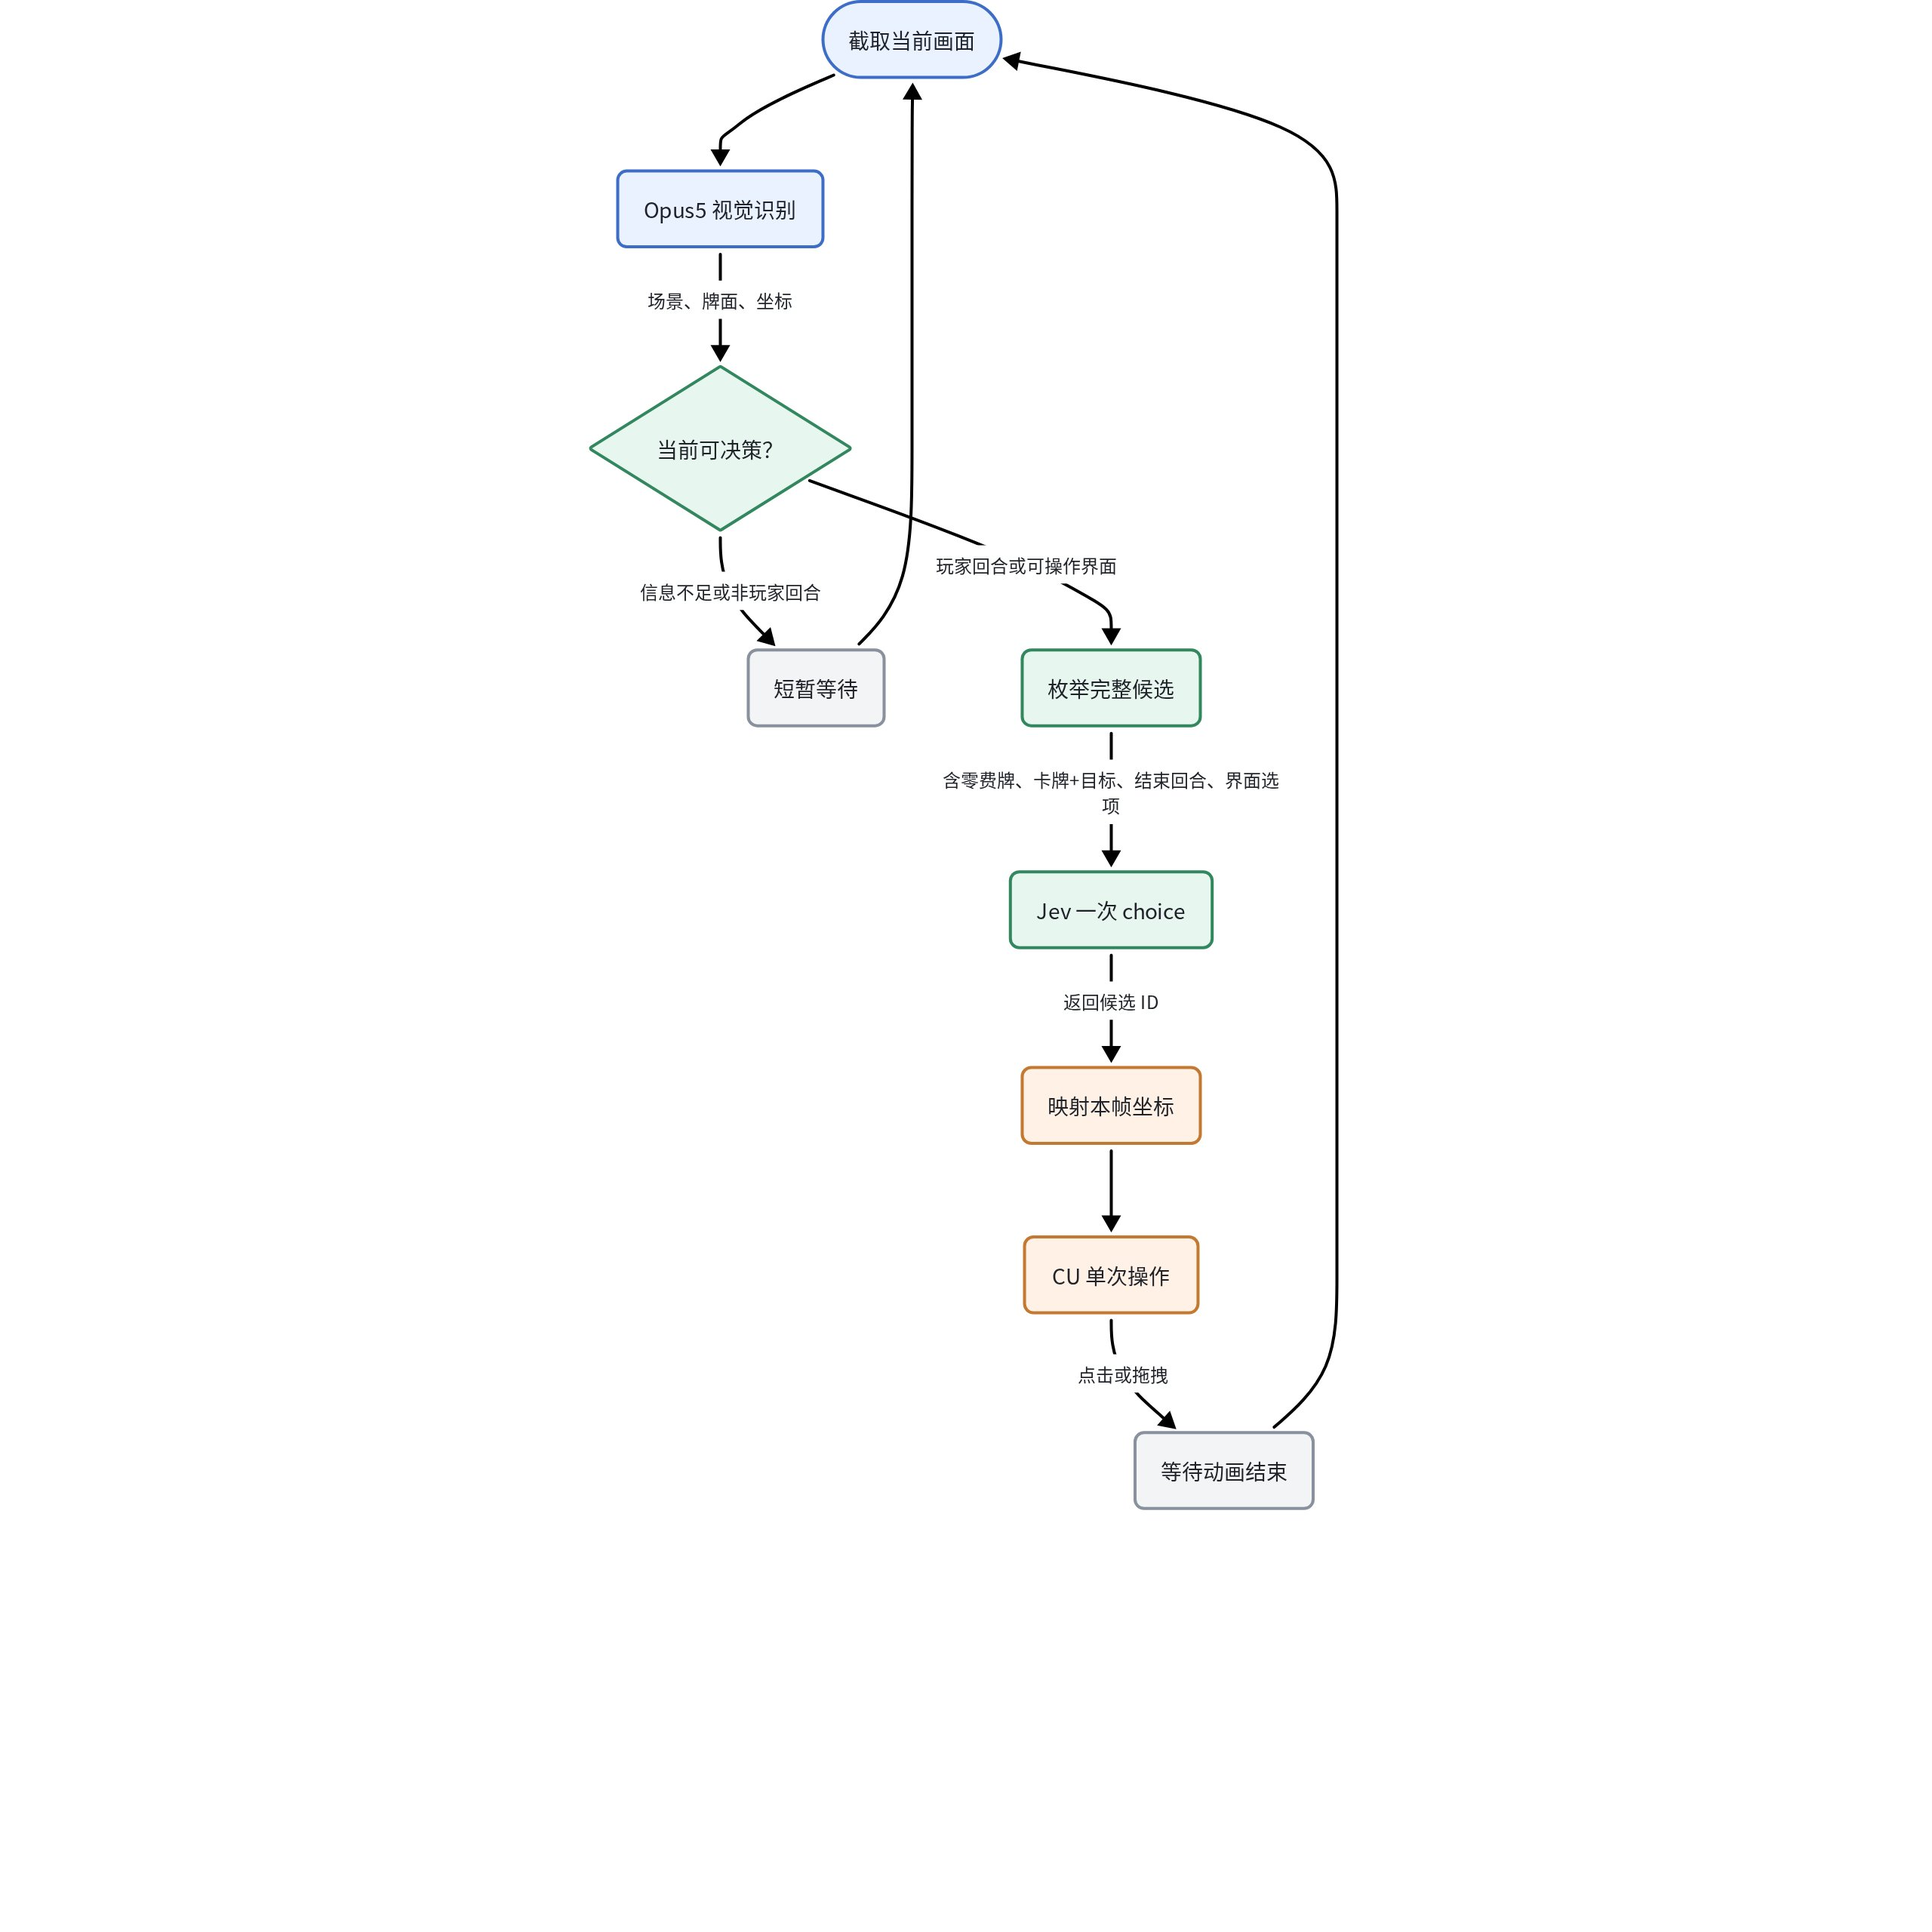
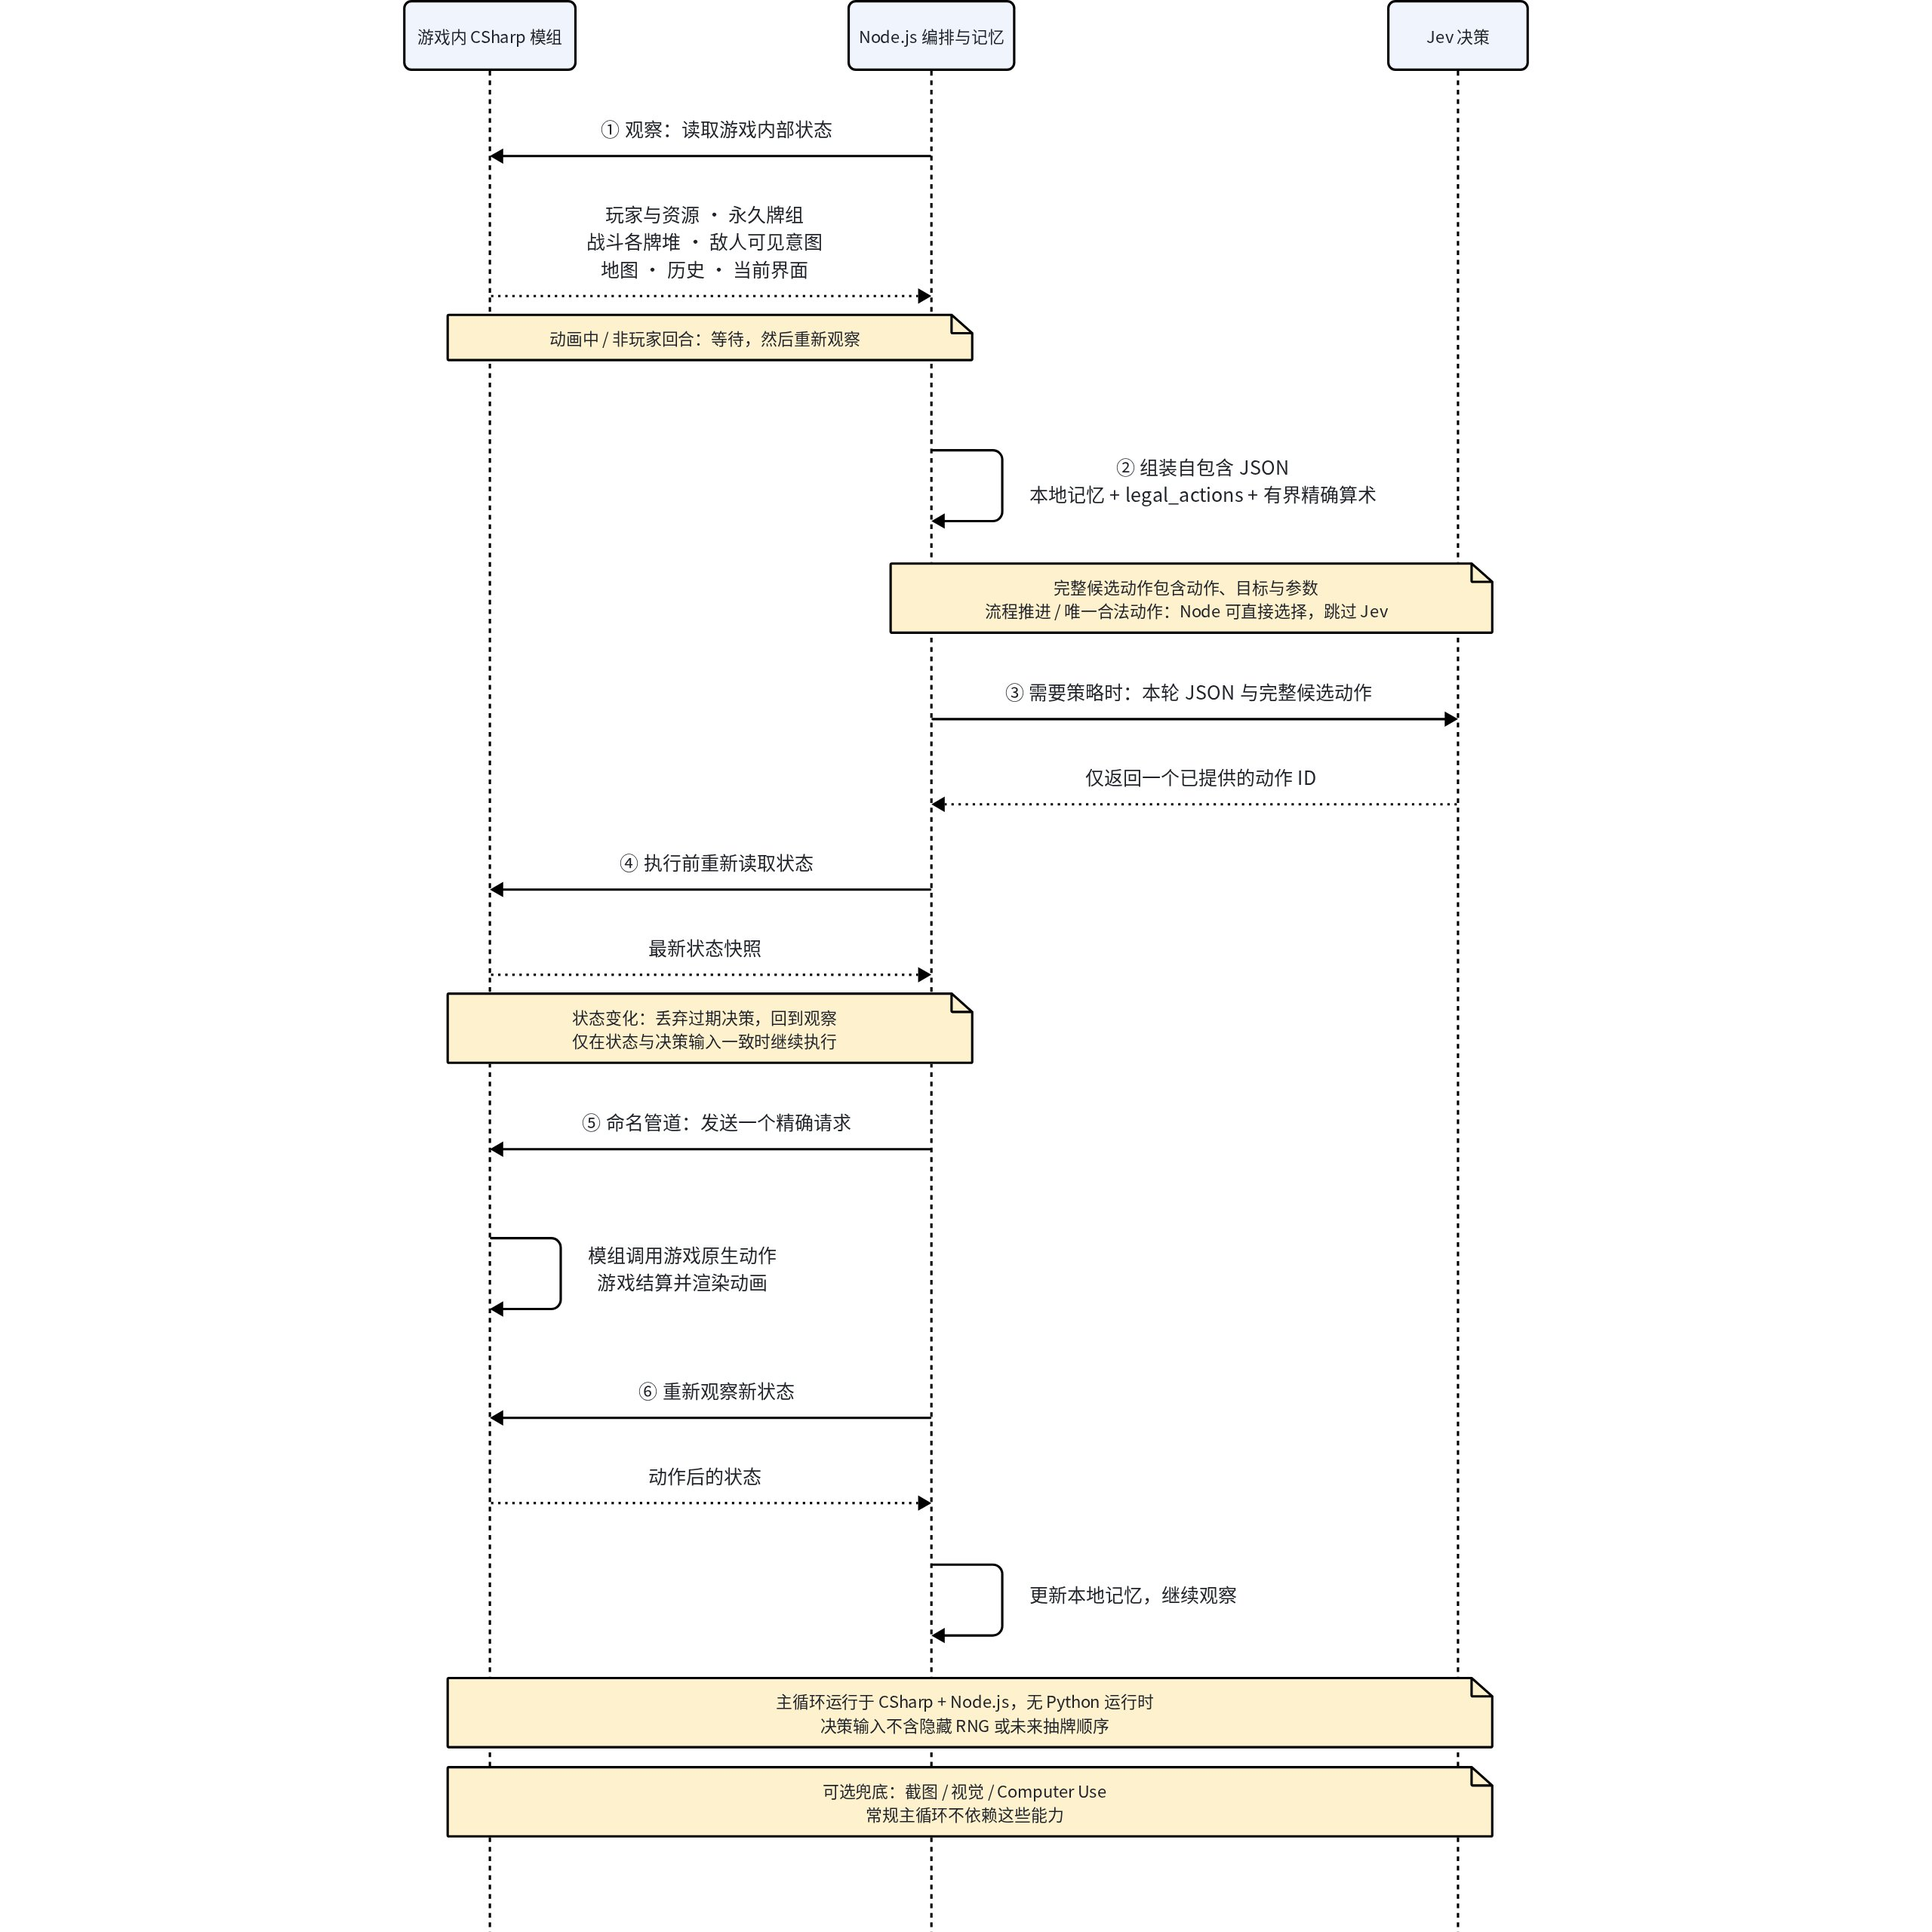
Expose event merchant stock and distinguish reviving combat targets

diff --git a/docs/full-run-progress.md b/docs/full-run-progress.md
@@ -24,14 +24,17 @@
 
 第五局在只有一张非基础攻击牌时选择了很快遇到精英的路径。现在 JSON 明确统计卡牌类型、基础牌数、非基础攻击与升级攻击数量，选路候选直接附带已有的精英/休息/商店距离和路线数量范围，避免把关键信息只放在较深的地图结构里。分岔局面回放改选推迟精英的分支（83%）。所有合法路线仍提供给 Jev，代码不代替它选择。
 
-当前工程检查：83 项 Node 测试通过；兼容模组使用本机 SDK 8 Roslyn 与游戏程序集编译成功。当前构建标签 `0.111.0-context.2`。实测已确认附魔规则、附魔确认、伤害预览、易伤数值展开和第一幕至第二幕过渡。第二幕地图处正常退出部署规则文字的连续能量图标计数修复，安装 DLL 与构建哈希一致。命名管道连接失败时区分“尚未发送”和“结果未知”，前者重新观察后决策，后者保留待核对状态；Windows 短暂文件共享冲突会重试原子记忆写入。后续流程仍需整局验证，不能据此声称已经通关。
+当前工程检查：83 项 Node 测试通过；兼容模组使用本机 SDK 8 Roslyn 与游戏程序集编译成功。当前构建标签 `0.111.0-context.4`。实测已确认附魔规则、附魔确认、伤害预览、易伤数值展开和第一幕至第二幕过渡。第二幕地图处正常退出部署规则文字的连续能量图标计数修复，安装 DLL 与构建哈希一致。命名管道连接失败时区分“尚未发送”和“结果未知”，前者重新观察后决策，后者保留待核对状态；Windows 短暂文件共享冲突会重试原子记忆写入。后续流程仍需整局验证，不能据此声称已经通关。
 
 后续：持续修复实际流程阻塞和上下文缺项，继续这局；正常失败后可开始新局。正式通关后在 master 提交最终实现，并更新现有飞书文档，不另建文档。
 
 第六局暴露了重振精神的计算错误：卡牌数值是每张被消耗牌的格挡，不能当作固定收益。现按其他非攻击手牌数量计算，并列出被消耗的牌，零目标时显示零收益。失败前 9 生命、24 来袭伤害的局面回放改选重振精神（92%），可按当时规则保留 1 生命；这只是局面验证。提示补充多敌人集中火力与保留尚未使用的能力牌的取舍。完整第六局记忆已归档。
 
-第七局在营火以 80/85 生命选择了回复，而实际最多只能回复 5。现将当前生命缺口直接写到休息候选旁，并明确锻造的永久收益。无游戏操作的同局面回放改选锻造（61%）。计算型攻击牌原先只有规则文本、没有数值伤害预览；新构建同时读取游戏的 Damage 和 CalculatedDamage 并调用正常目标预览，已编译为 0.111.0-context.3，等待战斗外部署。
+第七局在营火以 80/85 生命选择了回复，而实际最多只能回复 5。现将当前生命缺口直接写到休息候选旁，并明确锻造的永久收益。无游戏操作的同局面回放改选锻造（61%）。计算型攻击牌原先只有规则文本、没有数值伤害预览；新构建同时读取游戏的 Damage 和 CalculatedDamage 并调用正常目标预览，已编译为 0.111.0-context.3，并在通过第一幕后战斗外部署。
 
 
 第七局 run-1789850665 击败第一幕同族 Boss，战后 33/85 生命。长战斗在 65,104 字节时被服务端拒绝（max_tokens_exceeded），并未发送游戏动作；按记录形状共享实际相同字段后，无损整理为 60,336 字节，实际 31,165 输入 tokens，继续原战斗并以三张攻击牌获胜。API 错误现记录有限错误类别，便于区分容量问题。
 
+第七局随后在第二幕第 23 层 THE_OBSCURA_NORMAL 战正式失败，分数 392，最终记忆已归档。此前第 22 层假商人被旧模组误判为已完成普通事件，choose_event 被明确拒绝。context.4 统一解析当前可访问的普通/事件库存，使用原生价格、规则和购买方法；完成事件改用 proceed。在战斗外正常重启后，同一局回到相同事件、32/85 生命和 151 金币，成功读取 6 件商品及退出选项。Jev 选择离开，因此这次真实验证覆盖读取与退出，未覆盖事件购买；购买保护通过 24 项隔离模组断言，Node 83 项测试通过。
+
+第七局的战斗决策持续攻击具有 Illusion 的复活随从，主敌人在首回合后一直保留 108 生命。候选现直接指出复活只带来暂时缓解，并明确最后非随从敌人死亡后的随从离场规则；提示区分普通可永久击杀随从与无限复活目标。不操作游戏的同局面回放改选防御（30%），攻击选项主要转向主敌人，不能据此声称已经解决整场战斗。

diff --git a/mods/sts2-cli-compat/README.md b/mods/sts2-cli-compat/README.md
@@ -8,11 +8,13 @@ Read [UPSTREAM-NOTICE.md](UPSTREAM-NOTICE.md) for attribution and the unresolved
 
 ## Decision context extension (2026-09-20)
 
-The build applies `decision-context.patch` after the original compatibility patch, and copies our `context/DecisionContextBuilder.cs` into the temporary source. It produces **0.111.0-context.3**, assembly version **0.111.0.4**. The original draft PR above only contains the v0.111 API compatibility changes; the decision-context extension is maintained in this repository.
+The build applies `decision-context.patch` after the original compatibility patch, and copies our `context/DecisionContextBuilder.cs` into the temporary source. It produces **0.111.0-context.4**, assembly version **0.111.0.5**. The original draft PR above only contains the v0.111 API compatibility changes; the decision-context extension is maintained in this repository.
 
 The extension collects player, permanent deck, current-act map, card enhancements, rules and combat history in the same main-thread snapshot as the screen. It preserves combat beneath overlays, reports extraction gaps, exports card/potion usability and targets, and formats power/card rules with current values. Target damage previews use the game's normal preview hooks and support both fixed `Damage` and `CalculatedDamage` variables, including Perfected Strike and Body Slam. No hidden draw order, RNG, future encounter table or seed is exported. Run identity uses the saved start time; combat/card identities are opaque random identifiers.
 
-See the [decision context and coverage](../../docs/decision-context.md) and [live run progress](../../docs/full-run-progress.md). An older mod without this contract is rejected before a Jev/game-action request. Context builds have been deployed and tested through Act 2's boss, including shops, rewards, enchantment confirmation and act transitions; a complete three-act victory is still pending. The latest calculated-damage patch has compiled without warnings/errors and awaits deployment outside combat. Earlier single-battle evidence below describes the initial compatibility build only.
+See the [decision context and coverage](../../docs/decision-context.md) and [live run progress](../../docs/full-run-progress.md). An older mod without this contract is rejected before a Jev/game-action request. Context builds have been deployed and tested through Act 2's boss, including shops, rewards, enchantment confirmation and act transitions; a complete three-act victory is still pending. The latest calculated-damage patch compiled without warnings/errors and was deployed after the seventh run defeated Act 1; its specific calculated-card path still needs a live card observation. Earlier single-battle evidence below describes the initial compatibility build only.
+
+FakeMerchant custom events expose the already initialized, currently accessible merchant inventory as `SHOP`, with their event ID/title, stock, native rules and prices. A shared resolver is used by state extraction and all four purchase/removal handlers. It rejects inaccessible overlays and started fights; purchases still use the game's native merchant entry checks and actions. Finished events use the existing `proceed` command instead of assuming a standard option-button layout.
 
 ## Changes
 
@@ -54,7 +56,7 @@ git -C path/to/disposable-clone apply --check path/to/jev-sts2-agent/mods/sts2-c
 
 Successful outputs:
 
-- `STS2.Cli.Mod.dll` and `STS2.Cli.Mod.json`, manifest version `0.111.0-context.3`, assembly version `0.111.0.4`.
+- `STS2.Cli.Mod.dll` and `STS2.Cli.Mod.json`, manifest version `0.111.0-context.4`, assembly version `0.111.0.5`.
 - `compile.log` and `compile.rsp`, containing the build output and exact compiler inputs.
 - `build-evidence.json`, recording the upstream commit, both patch hashes, context builder and game assembly hashes, compiler location, source/reference counts, exit code, binary hash, and `deploymentPerformed: false`.
 

diff --git a/feishu_plan.md b/feishu_plan.md
@@ -99,7 +99,7 @@ Jev 返回后，在发动作前再次读取 state；若动作相关 fingerprint 
 
 默认允许用户并发移动光标和切窗口，前后状态差异标记为来源未知，不自动归咎于 Agent。`--strict-desktop` 是视觉循环的可选无人干预检测。用户允许必要时短暂聚焦，但实际使用须留证，不把授权写成已完成的聚焦后备实现。
 
-早期 [流程图](docs/agent-loop.png) / [Mermaid 源码](docs/agent-loop.mmd)描述的是视觉闭环分支；当前主路线以本节和前述模组闭环为准。
+[流程图](docs/agent-loop.png) / [Mermaid 源码](docs/agent-loop.mmd)已同步为当前模组闭环，与现有飞书白板保持一致。
 
 ## 6. 工程入口与操作顺序
 
